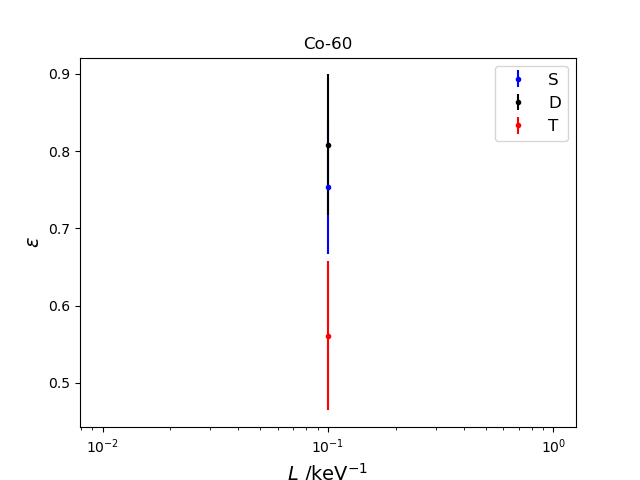
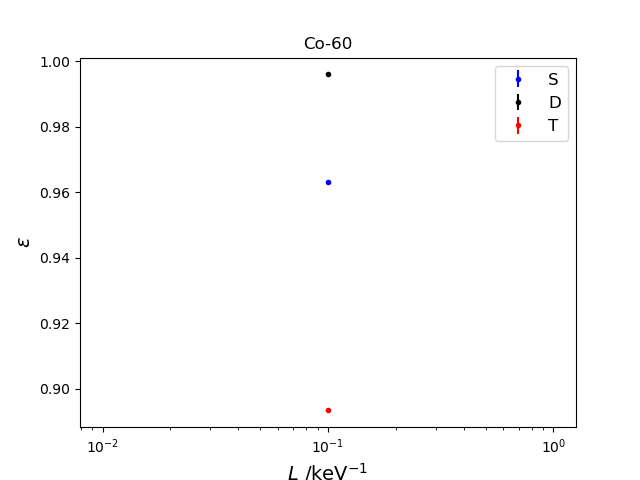
Implement branch sampling when reading BetaShape

diff --git a/MCTDCRcode/main_MCTDCR.py b/MCTDCRcode/main_MCTDCR.py
@@ -16,20 +16,20 @@ import scipy.stats as st
 
 
 ## INPUT OF THE MODEL
-N=10             # number of simulated decay (MC trials)
+N=1000             # number of simulated decay (MC trials)
 Rad=["Co-60"]       # list of radionuclides (Na-24)
 pmf_1=[1]       # relative abondance (pmf)
 kB = 1.0e-5         # Birks constant in cm/keV
-L=[1e-1]
+# L=[1e-1]
 # L = np.logspace(-3, 0, 25) # Free paramete in keV-1 (for Cs-137)
-# L = np.logspace(-3,0,200) # Free paramete in keV-1 (for Co-60)
+L = np.logspace(-3,0,200) # Free paramete in keV-1 (for Co-60)
 # L = np.logspace(-3,-1,10) # Free paramete in keV-1 (for Am-241)
 # L = np.logspace(-3,1,30) # Free paramete in keV-1 (for Sr-90)
 # L = np.logspace(-2,1,50) # Free paramete in keV-1 (for H-3)
 TDCR_measure = 0.977784        # Measured TDCR value
 u_TDCR_measure = 0.000711      # standard uncertainty
 Record = True                  # to record the efficiency curves
-Display = True                # to display calculation results on the console
+Display = False                # to display calculation results on the console
 # RHO = 0.96         #density of absorber (Toluene) g/cm3
 RHO = 0.98           #density of absorber (UG + H20) g/cm3
 
@@ -74,15 +74,20 @@ Read BetaShape
 e_beta = []
 p_beta = []
 for i, rad_i in enumerate(Rad):
-    if particle[i][0] == "beta": 
-        e_beta.append(tl.readBetaShape(rad_i, "beta-", "tot")[0])
-        p_beta.append(tl.readBetaShape(rad_i, "beta-", "tot")[1])
-    elif particle[i][0] == "beta+":
-        e_beta.append(tl.readBetaShape(rad_i, "beta-", "tot")[0])
-        p_beta.append(tl.readBetaShape(rad_i, "beta-", "tot")[1])
-    else:
-        e_beta.append("")
-        p_beta.append("")        
+    e_beta_0 = []
+    p_beta_0 = []
+    for j in range(len(particle[i])):
+        if particle[i][j] == "beta":
+            e_beta_0.append(tl.readBetaShape(rad_i, "beta-", "trans"+str(j))[0])
+            p_beta_0.append(tl.readBetaShape(rad_i, "beta-", "trans"+str(j))[1])
+        elif particle[i][j] == "beta+":
+            e_beta_0.append(tl.readBetaShape(rad_i, "beta+", "trans"+str(j))[0])
+            p_beta_0.append(tl.readBetaShape(rad_i, "beta+", "trans"+str(j))[1])
+        else:
+            e_beta.append("")
+            p_beta.append("")   
+        e_beta.append(e_beta_0)
+        p_beta.append(p_beta_0)
 
 mean_efficiency_S = []  # efficiency of single counte rate
 std_efficiency_S = []   # std
@@ -99,6 +104,8 @@ for L_i in L: # loop on the free parameter values
     efficiency_T = []        # results calculated efficiency for triple coincidence
 
     for i in range(N): # Main Loop
+    
+       #tl.tic()
        particle_vec=[]
        energy_vec=[]
     
@@ -124,7 +131,7 @@ for L_i in L: # loop on the free parameter values
        # next_level = out_PenNuc[9]        # Next level on the daughter nucleus
        # Q_value = out_PenNuc[10]          # Energy of the reaction
        
-     ## sampling of the decay branch
+       ## sampling of the decay branch
        multiplicity_branch = sum(np.asarray(p_branch[index_rad]))
        index_branch = tl.sampling(p_branch[index_rad])
        particle_branch = particle[index_rad][index_branch]            # sampled particle emitted by the mother
@@ -135,7 +142,7 @@ for L_i in L: # loop on the free parameter values
        if Display: print("\t\t Particle = ", particle_branch)
        if Display: print("\t\t Energy of the particle = ", energy_branch, " keV")
        if Display: print("\t\t Level of the daughter nucleus = ", levelOftheDaughter)
-
+       
        # Scoring
        e_sum = energy_branch                               # Update the Energy summary
        particle_vec.append(particle_branch)                # Update of the particle vector
@@ -202,16 +209,16 @@ for L_i in L: # loop on the free parameter values
          if p == "beta":
              # e_beta, p_beta, n_bin = tl.readBetaSpectrum(rad_i) # deprecated
              # e_beta, p_beta = tl.readBetaShape(rad_i, "beta-", "tot")
-             index_beta_energy = tl.sampling(p_beta[index_rad])
+             index_beta_energy = tl.sampling(p_beta[index_rad][-(1+index_branch)])
              particle_vec[i] = "electron"
-             energy_vec[i] = e_beta[index_rad][index_beta_energy]
+             energy_vec[i] = e_beta[index_rad][-(1+index_branch)][index_beta_energy]
              # Sampling Matrice comme gamma
          
          if p == "beta+":
              # e_beta, p_beta = tl.readBetaShape(rad_i, "beta+", "tot")
-             index_beta_energy = tl.sampling(p_beta[index_rad])
+             index_beta_energy = tl.sampling(p_beta[index_rad][-(1+index_branch)])
              particle_vec[i] = "positron"
-             energy_vec[i] = e_beta[index_rad][index_beta_energy]
+             energy_vec[i] = e_beta[index_rad][-(1+index_branch)][index_beta_energy]
              # Sampling Matrice comme gamma
 
          if p == "gamma" or p == "x":
@@ -264,6 +271,9 @@ for L_i in L: # loop on the free parameter values
        efficiency_S.append(p_single)
        efficiency_T.append(p_single**3)
        efficiency_D.append(3*(p_single)**2-2*efficiency_T[-1])
+       
+       
+       #tl.toc()
 
 
     # We calculate the final estimator
@@ -276,7 +286,7 @@ for L_i in L: # loop on the free parameter values
     TDCR_calcul.append(mean_efficiency_T[-1]/mean_efficiency_D[-1])
     
     print("\t TDCR calculation")
-    if len(L) > 0: print("\t\t Progress = ", round(100*(L.index(L_i)+1)/len(L), 1), " %")
+    if len(L) > 0: print("\t\t Progress = ", round(100*(L.tolist().index(L_i)+1)/len(L), 1), " %")
     print("\t\t Free parameter : ", L_i, " keV-1")
     print("\t\t Efficiency of Triple coincident events : ", round(100*mean_efficiency_T[-1],3), "+/-", round(100*std_efficiency_T[-1],3), " %")
     print("\t\t Efficiency of Double coincident events : ", round(100*mean_efficiency_D[-1],3), "+/-", round(100*std_efficiency_D[-1],3), " %")
